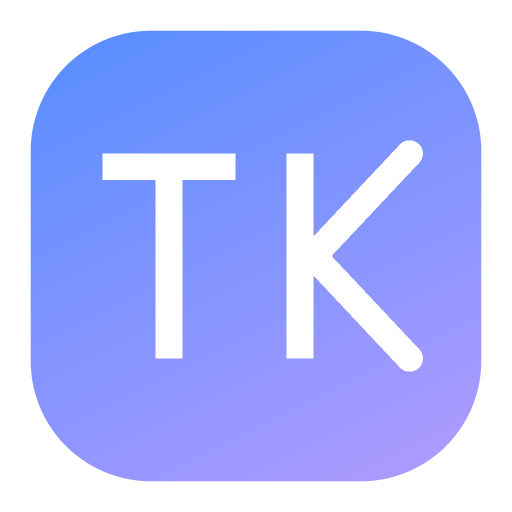
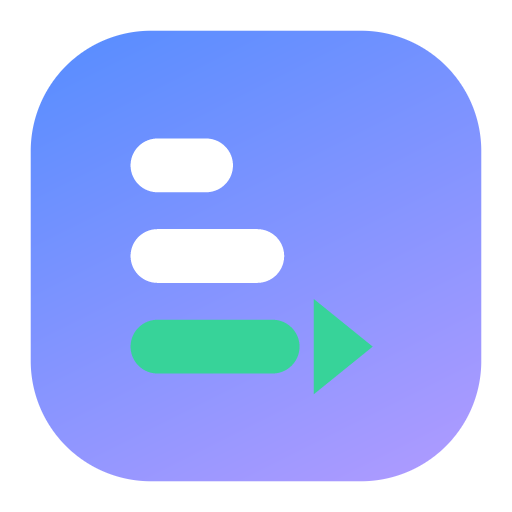
feat: nova marca — tres barras e uma decisao
O icone era o monograma "TK": dizia o nome do app e mais nada. A marca
nova e o app inteiro num simbolo — tres barras de comprimentos
crescentes, a mais longa terminando em seta e no verde de "Investir".
E literalmente o que o app faz: le tres barras num print e devolve UMA
decisao.

O desenho saiu do Stitch (Google), que devolveu um PNG 512 pronto. O que
mudou aqui foi a execucao:

- o PNG dele tinha o grupo encostado em cima e a esquerda, com um vazio
  grande na diagonal oposta — num icone de app isso salta aos olhos;
- vinha num tamanho so, e o PWA precisa de 192, 512, maskable e apple;
- usava uma paleta propria. Agora sao os tokens do app: `--tk-brand` no
  gradiente e `--tk-succ` na barra decisiva, o mesmo verde que a tela do
  veredito usa pra "Investir".

Duas descobertas de tamanho pequeno, ambas so visiveis medindo:

- a primeira ponta avancava 0,12 e afinava devagar: virava lapis, nao
  seta. A cabeca agora e curta, solta do corpo e MAIS ALTA que a barra —
  as tres coisas juntas e que fazem ler como seta;
- a 32 px e abaixo a cabeca vira um borrao verde grudado na barra. Nesses
  tamanhos a marca sai sem seta, com a terceira barra indo ate onde a
  ponta ia. Comparado lado a lado, desenhar menos mostra mais.

Favicons renderizados NO tamanho, nao encolhidos do 512 — o navegador
reamostrando funde as tres barras. Nao havia favicon nenhum antes.

A tela de boas-vindas tambem larga o "TK". La a marca e CSS puro, nao o
[…]

Changed region(s): [[0.1875, 0.25, 0.8438, 0.7812]]

diff --git a/apps/web/scripts/make-icons.ts b/apps/web/scripts/make-icons.ts
@@ -1,6 +1,16 @@
 /**
- * Gera os icones do PWA. Arte propria, desenhada por codigo: quadrado
- * arredondado com o gradiente da marca e o monograma TK.
+ * Gera os icones do PWA. Arte propria, desenhada por codigo.
+ *
+ * A marca sao tres barras de comprimentos crescentes, e a mais longa termina em
+ * ponta e vem no verde de "Investir". E o app inteiro em um simbolo: ele LE tres
+ * barras num print e devolve UMA decisao. O monograma "TK" que existia antes
+ * dizia so o nome — nao dizia o que o app faz.
+ *
+ * O desenho saiu do Stitch; o que mudou aqui foi a execucao. O PNG que ele
+ * devolveu tinha o grupo encostado em cima e a esquerda, com um vazio grande
+ * embaixo e a direita, e vinha num tamanho so. Redesenhado em codigo ele fica
+ * opticamente centrado, sai em todos os tamanhos e usa os tokens do app em vez
+ * de uma paleta paralela — o verde e o mesmo `--tk-succ` do veredito "Investir".
  *
  * Existe como script (e nao como PNG commitado) porque assim o icone e
  * reproduzivel e os tokens de cor sao a unica fonte de verdade. Rode com
@@ -20,6 +30,10 @@ const OUT_DIR = join(HERE, "..", "public");
 // --- gradiente da marca, o mesmo --tk-brand dos tokens -----------------------
 const FROM = [0x4f, 0x8c, 0xff] as const;
 const TO = [0xb7, 0x9c, 0xff] as const;
+
+/** --tk-succ: o verde que o app usa para "Investir". */
+const DECISION = [0x37, 0xd3, 0x99] as const;
+const WHITE = [0xff, 0xff, 0xff] as const;
 
 const crcTable = (() => {
   const t = new Uint32Array(256);
@@ -89,44 +103,75 @@ function roundedRectSdf(
 }
 
 /**
- * Monograma "TK" em formas geometricas.
+ * A marca: tres barras crescentes, a ultima apontando pra frente.
  *
- * Coordenadas normalizadas em [0,1] sobre o tile, para o desenho escalar
- * junto com o tamanho pedido. Retorna true se o pixel cai na letra.
+ * Coordenadas normalizadas em [0,1] sobre o tile, para o desenho escalar junto
+ * com o tamanho pedido. Devolve `null` fora da marca, ou a cor do pixel.
+ *
+ * Os numeros sao escolhidos para o grupo ficar centrado nos DOIS eixos: as tres
+ * barras mais os dois vaos somam 0,40 de altura comecando em 0,30, e a extensao
+ * horizontal vai de 0,26 ate 0,74. Foi exatamente isso que faltou no PNG
+ * original — a marca encostava em cima e a esquerda e sobrava vazio na diagonal
+ * oposta, o que num icone de app salta aos olhos.
  */
-function inMonogram(u: number, v: number): boolean {
-  const bar = 0.052; // espessura do traco
+const BAR_H = 0.105; // espessura de cada barra
+const BAR_GAP = 0.072; // vao entre elas
+const MARK_LEFT = 0.255;
+/** Comprimento de cada barra. A terceira ganha cabeca de seta depois do corpo. */
+const BAR_LEN = [0.2, 0.3, 0.33] as const;
+/** Vao entre o corpo da terceira barra e a cabeca da seta. */
+const HEAD_GAP = 0.028;
+/** Comprimento e meia-altura da cabeca. Mais alta que a barra, de proposito. */
+const HEAD_LEN = 0.115;
+const HEAD_H = 0.093;
 
-  // T — barra superior e haste central
-  const tLeft = 0.2;
-  const tRight = 0.46;
-  const tTop = 0.3;
-  const tBottom = 0.7;
-  const tStem = (tLeft + tRight) / 2;
-  if (v >= tTop && v <= tTop + bar && u >= tLeft && u <= tRight) return true;
-  if (u >= tStem - bar / 2 && u <= tStem + bar / 2 && v >= tTop && v <= tBottom) return true;
+/** Onde a ponta da seta termina. A barra simplificada vai ate aqui. */
+const MARK_RIGHT = MARK_LEFT + BAR_LEN[2] + HEAD_GAP + HEAD_LEN;
 
-  // K — haste vertical e duas diagonais
-  const kStem = 0.56;
-  const kTop = 0.3;
-  const kBottom = 0.7;
-  const kMid = (kTop + kBottom) / 2;
-  const kRight = 0.8;
-  if (u >= kStem && u <= kStem + bar && v >= kTop && v <= kBottom) return true;
+/**
+ * @param simple Sem a cabeca de seta, com a terceira barra indo ate o fim.
+ *   Ligado nos tamanhos minimos: a 16 px a cabeca tem tres pixels de base e o
+ *   vao que a separa do corpo tem menos de um. Ela nao vira seta, vira sujeira
+ *   verde — e some junto com a legibilidade da terceira barra. Desenhar menos
+ *   nesse tamanho mostra mais.
+ */
+function markAt(
+  u: number,
+  v: number,
+  simple: boolean,
+): readonly [number, number, number] | null {
+  const top = 0.5 - (3 * BAR_H + 2 * BAR_GAP) / 2;
+  const r = BAR_H / 2;
+  const rowY = (i: number): number => top + i * (BAR_H + BAR_GAP) + BAR_H / 2;
 
-  // Diagonais: distancia perpendicular ao segmento.
-  const seg = (ax: number, ay: number, bx: number, by: number): boolean => {
-    const vx = bx - ax;
-    const vy = by - ay;
-    const wx = u - ax;
-    const wy = v - ay;
-    const t = Math.max(0, Math.min(1, (wx * vx + wy * vy) / (vx * vx + vy * vy)));
-    return Math.hypot(wx - t * vx, wy - t * vy) <= bar / 2;
-  };
-  if (seg(kStem + bar, kMid, kRight, kTop)) return true;
-  if (seg(kStem + bar, kMid, kRight, kBottom)) return true;
+  // Cabeca de seta primeiro: ela e mais ALTA que a barra, entao precisa ser
+  // testada fora do laco das barras — o corte por `dy > r` de la descartaria
+  // justamente os pixels que fazem dela uma seta.
+  if (!simple) {
+    const headCy = rowY(2);
+    const headBase = MARK_LEFT + BAR_LEN[2]! + HEAD_GAP;
+    if (u >= headBase && u <= headBase + HEAD_LEN) {
+      const t = (u - headBase) / HEAD_LEN;
+      if (Math.abs(v - headCy) <= HEAD_H * (1 - t)) return DECISION;
+    }
+  }
 
-  return false;
+  for (let i = 0; i < 3; i++) {
+    const cy = rowY(i);
+    if (Math.abs(v - cy) > r) continue;
+
+    const len = simple && i === 2 ? MARK_RIGHT - MARK_LEFT : BAR_LEN[i]!;
+
+    // Corpo da barra: capsula, ou seja, distancia ao segmento horizontal.
+    const xa = MARK_LEFT + r;
+    const xb = MARK_LEFT + len - r;
+    const nearest = Math.max(xa, Math.min(xb, u));
+    if (Math.hypot(u - nearest, v - cy) <= r) {
+      return i === 2 ? DECISION : WHITE;
+    }
+  }
+
+  return null;
 }
 
 function renderIcon(size: number, maskable: boolean): Uint8Array {
@@ -138,6 +183,11 @@ function renderIcon(size: number, maskable: boolean): Uint8Array {
   const half = size / 2 - inset;
   const radius = maskable ? size / 2 : size * 0.235; // raio = 1/3 do lado (prototipo)
   const monoScale = maskable ? 0.78 : 1;
+  // Abaixo disto a cabeca de seta nao cabe em pixel nenhum. Ver `markAt`.
+  // O limite saiu de comparar 32 px lado a lado: com seta ela vira um borrao
+  // verde grudado na barra; sem ela a marca fica limpa e ainda diz a mesma
+  // coisa. Os tamanhos que importam pro icone (180 pra cima) ficam com a seta.
+  const simple = size <= 40;
 
   for (let y = 0; y < size; y++) {
     for (let x = 0; x < size; x++) {
@@ -155,20 +205,30 @@ function renderIcon(size: number, maskable: boolean): Uint8Array {
       let g = FROM[1] + (TO[1] - FROM[1]) * t;
       let b = FROM[2] + (TO[2] - FROM[2]) * t;
 
-      // Monograma em branco por cima, com antialias por supersampling 2x2.
+      // A marca por cima, com antialias por supersampling 4x4. Quatro amostras
+      // bastavam pro monograma, que era todo reto; a ponta da barra decisiva e
+      // uma diagonal rasa e ficava serrilhada nos tamanhos pequenos.
       let hits = 0;
-      for (const oy of [-0.25, 0.25]) {
-        for (const ox of [-0.25, 0.25]) {
+      let mr = 0;
+      let mg = 0;
+      let mb = 0;
+      for (const oy of [-0.375, -0.125, 0.125, 0.375]) {
+        for (const ox of [-0.375, -0.125, 0.125, 0.375]) {
           const u = (px + ox - size / 2) / (size * monoScale) + 0.5;
           const w = (py + oy - size / 2) / (size * monoScale) + 0.5;
-          if (inMonogram(u, w)) hits++;
+          const color = markAt(u, w, simple);
+          if (!color) continue;
+          hits++;
+          mr += color[0];
+          mg += color[1];
+          mb += color[2];
         }
       }
       if (hits > 0) {
-        const a = hits / 4;
-        r = r * (1 - a) + 255 * a;
-        g = g * (1 - a) + 255 * a;
-        b = b * (1 - a) + 255 * a;
+        const a = hits / 16;
+        r = r * (1 - a) + (mr / hits) * a;
+        g = g * (1 - a) + (mg / hits) * a;
+        b = b * (1 - a) + (mb / hits) * a;
       }
 
       rgba[i] = Math.round(r);
@@ -188,6 +248,11 @@ for (const [size, maskable, name] of [
   [512, false, "icon-512.png"],
   [512, true, "icon-maskable-512.png"],
   [180, false, "apple-touch-icon.png"],
+  // Favicons renderizados NO tamanho, nao encolhidos do 512: o navegador
+  // reamostra a imagem grande e a marca vira borrao: sao tres barras finas com
+  // vaos de dois pixels. Renderizado direto, com supersampling, ele sai nitido.
+  [32, false, "favicon-32.png"],
+  [16, false, "favicon-16.png"],
 ] as const) {
   const png = encodePng(size, size, renderIcon(size, maskable));
   await writeFile(join(OUT_DIR, name), png);

diff --git a/apps/web/src/App.css b/apps/web/src/App.css
@@ -641,16 +641,54 @@
 }
 
 /* Marca do onboarding — mesmo gradiente do icone do app. */
+/* A marca do app, nas mesmas proporcoes do icone (ver scripts/make-icons.ts).
+   Aqui ela e feita de tres <span>: o icone gerado e PNG, e um PNG de 84px numa
+   tela de densidade 3 fica mole. Em CSS ela e nitida em qualquer aparelho. */
 .tk-onb-mark {
   width: 84px;
   height: 84px;
   border-radius: 28px;
   background: var(--tk-brand);
-  display: grid;
-  place-items: center;
-  font: 800 30px var(--tk-mono);
-  color: #fff;
+  display: flex;
+  flex-direction: column;
+  justify-content: center;
+  gap: 6px;
+  padding-left: 21px;
   box-shadow: var(--tk-e2);
+}
+
+.tk-onb-mark > span {
+  height: 9px;
+  border-radius: 5px;
+  background: #fff;
+}
+
+.tk-onb-mark > span:nth-child(1) {
+  width: 17px;
+}
+
+.tk-onb-mark > span:nth-child(2) {
+  width: 25px;
+}
+
+/* A terceira e a decisao: vai mais longe, vem no verde de "Investir" e termina
+   em seta — a seta e um triangulo feito com borda, sem SVG nem imagem. */
+.tk-onb-mark > span:nth-child(3) {
+  width: 28px;
+  background: var(--tk-succ);
+  position: relative;
+}
+
+.tk-onb-mark > span:nth-child(3)::after {
+  content: "";
+  position: absolute;
+  left: 100%;
+  top: 50%;
+  transform: translateY(-50%);
+  margin-left: 2px;
+  border: 8px solid transparent;
+  border-left: 10px solid var(--tk-succ);
+  border-right: 0;
 }
 
 /* Grade de idiomas do setup. */

diff --git a/apps/web/index.html b/apps/web/index.html
@@ -22,6 +22,13 @@
     <meta name="apple-mobile-web-app-title" content="TrainerKit" />
     <link rel="apple-touch-icon" href="/apple-touch-icon.png" />
 
+    <!-- Dois tamanhos renderizados NO tamanho, nao encolhidos do 512: a marca
+         sao tres barras finas, e o navegador reamostrando a imagem grande as
+         funde num borrao. Nesses dois a seta sai do desenho de proposito — ver
+         `scripts/make-icons.ts`. -->
+    <link rel="icon" type="image/png" sizes="32x32" href="/favicon-32.png" />
+    <link rel="icon" type="image/png" sizes="16x16" href="/favicon-16.png" />
+
     <link rel="preconnect" href="https://fonts.googleapis.com" />
     <link rel="preconnect" href="https://fonts.gstatic.com" crossorigin />
     <link

diff --git a/apps/web/src/onboarding/Onboarding.tsx b/apps/web/src/onboarding/Onboarding.tsx
@@ -30,8 +30,12 @@ export function Onboarding() {
     <div className="tk-sheet-full" role="dialog" aria-modal="true" aria-label="Boas-vindas">
       {step === 0 && (
         <>
+          {/* A mesma marca do icone: tres barras crescentes e a decisao em
+              verde. Antes eram as letras "TK", que diziam o nome e mais nada. */}
           <div className="tk-onb-mark" aria-hidden="true">
-            TK
+            <span />
+            <span />
+            <span />
           </div>
           <h1 className="tk-h1" style={{ marginTop: 24 }}>
             TrainerKit
